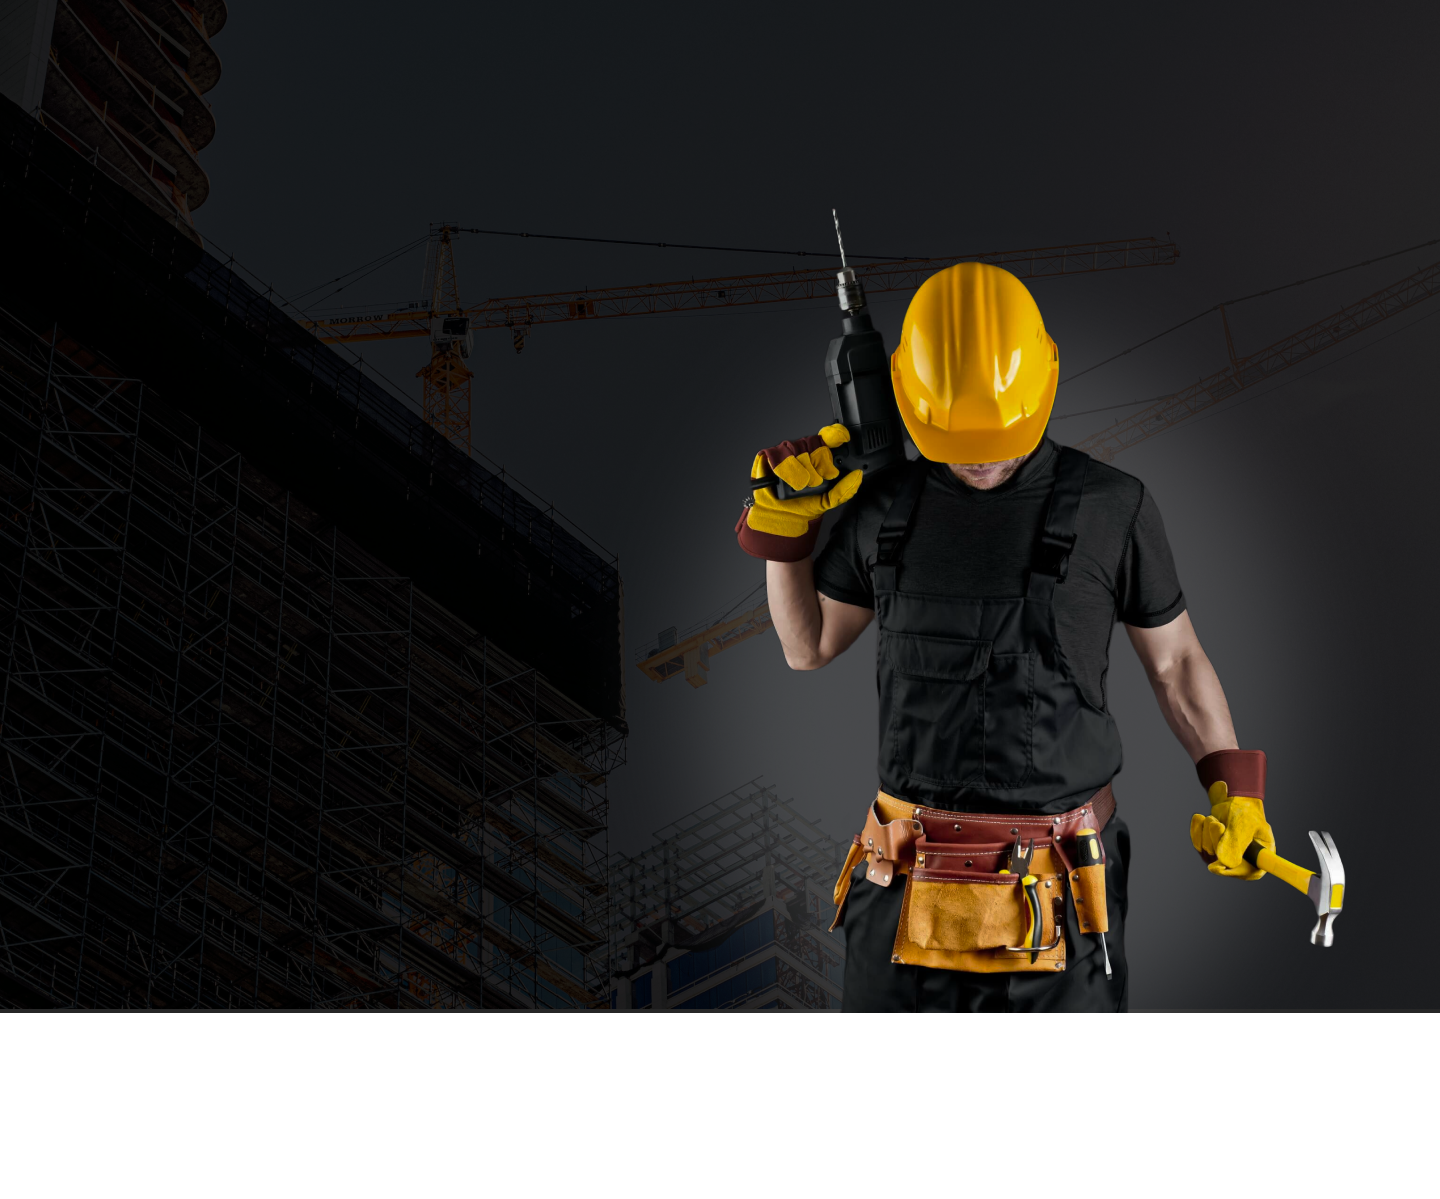
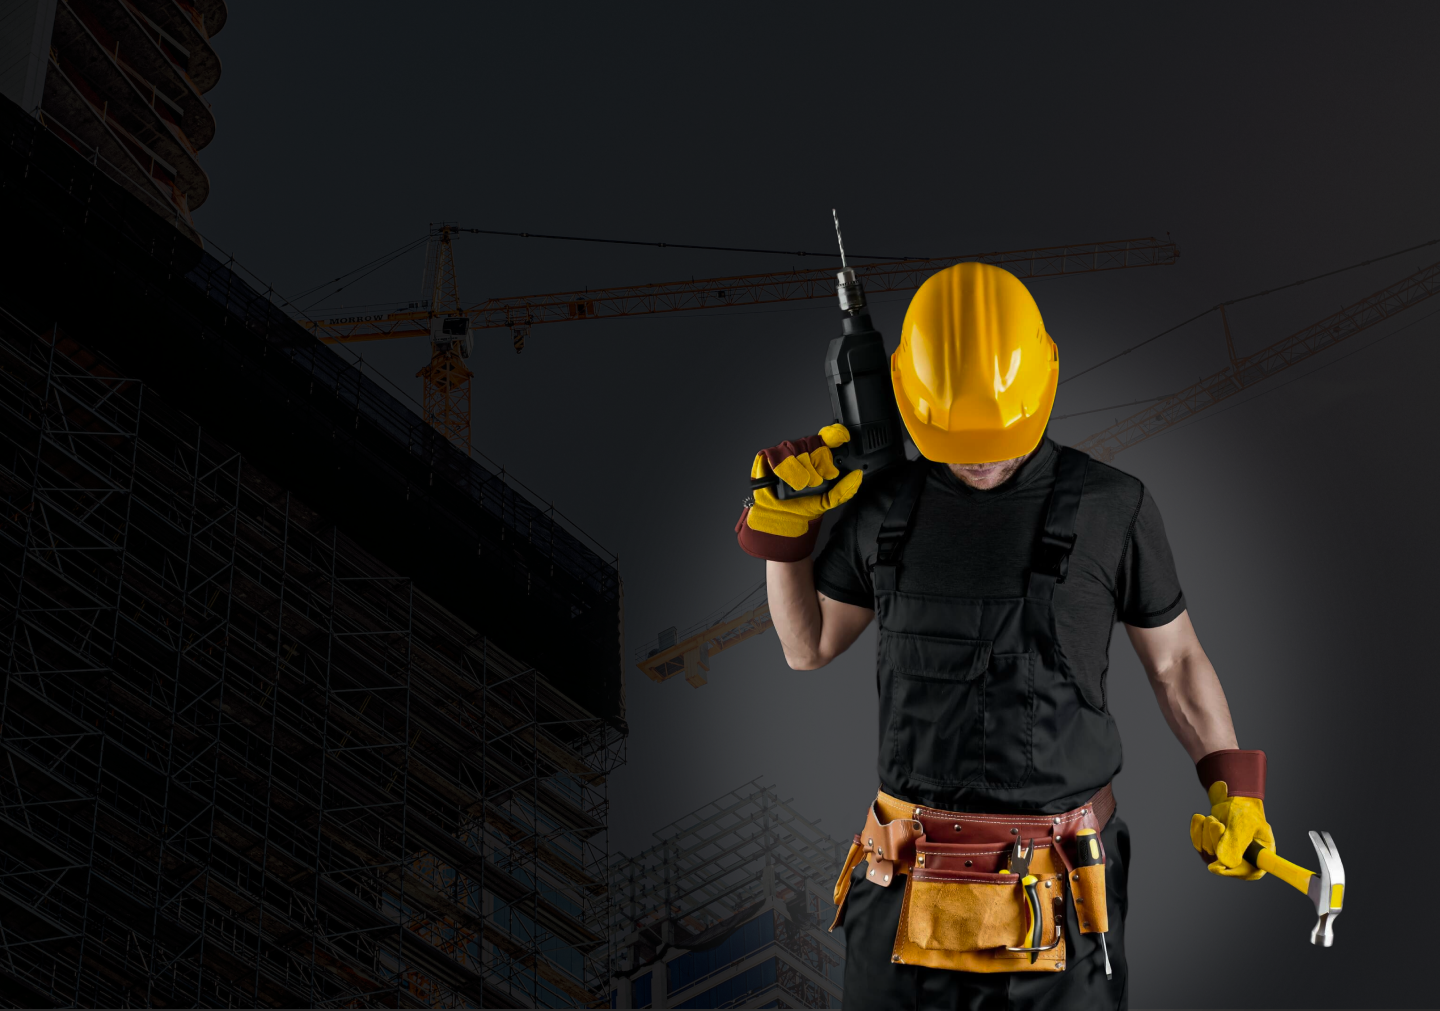
update section main

diff --git a/src/index.html b/src/index.html
@@ -13,7 +13,10 @@
 						<!-- Двигающееся часть слайдера -->
 						<div class="main__wrapper swiper-wrapper">
 							<!-- Слайд -->
-							<div class="main__slide swiper-slide" style="background-image: url(../img/main/slide-1.png);">
+							<div class="main__slide swiper-slide">
+								<div class="main__img">
+									<img src="@img/main/slide-1.png" alt="">
+								</div>
 								<div class="main__slide__container">
 									<div class="main__content">
 										<p class="main__title">Rennova Group</p>
@@ -21,7 +24,10 @@
 									</div>
 								</div>
 							</div>
-							<div class="main__slide swiper-slide" style="background-image: url(../img/main/slide-2.png);">
+							<div class="main__slide swiper-slide">
+								<div class="main__img">
+									<img src="@img/main/slide-2.png" alt="">
+								</div>
 								<div class="main__slide__container">
 									<div class="main__content">
 										<p class="main__title">Наша основа - ваше доверие</p>
@@ -29,7 +35,10 @@
 									</div>
 								</div>
 							</div>
-							<div class="main__slide swiper-slide" style="background-image: url(../img/main/slide-3.png);">
+							<div class="main__slide swiper-slide">
+								<div class="main__img">
+									<img src="@img/main/slide-3.png" alt="">
+								</div>
 								<div class="main__slide__container">
 									<div class="main__content">
 										<p class="main__title">Всегда есть выход</p>
@@ -37,7 +46,10 @@
 									</div>
 								</div>
 							</div>
-							<div class="main__slide swiper-slide" style="background-image: url(../img/main/slide-4.png);">
+							<div class="main__slide swiper-slide">
+								<div class="main__img">
+									<img src="@img/main/slide-4.png" alt="">
+								</div>
 								<div class="main__slide__container">
 									<div class="main__content">
 										<p class="main__title">Качество говорит о многом</p>
@@ -45,7 +57,10 @@
 									</div>
 								</div>
 							</div>
-							<div class="main__slide swiper-slide" style="background-image: url(../img/main/slide-5.png);">
+							<div class="main__slide swiper-slide">
+								<div class="main__img">
+									<img src="@img/main/slide-5.png" alt="">
+								</div>
 								<div class="main__slide__container">
 									<div class="main__content">
 										<p class="main__title">Стань частью Rennova Group</p>
@@ -55,7 +70,9 @@
 							</div>
 						</div>
 						<!-- Если нужна пагинация -->
-						<div class="swiper-pagination"></div>
+						<div class="main__pagination swiper-pagination">
+
+						</div>
 					</div>
 				</section>
 			</main>

diff --git a/src/js/files/sliders.js b/src/js/files/sliders.js
@@ -7,7 +7,7 @@
 // Подключаем слайдер Swiper из node_modules
 // При необходимости подключаем дополнительные модули слайдера, указывая их в {} через запятую
 // Пример: { Navigation, Autoplay }
-import Swiper, { Navigation } from 'swiper';
+import Swiper, {EffectFade, Pagination} from 'swiper';
 /*
 Основниые модули слайдера:
 Navigation, Pagination, Autoplay, 
@@ -27,12 +27,12 @@ import "../../scss/libs/swiper.scss";
 function initSliders() {
 	// Перечень слайдеров
 	// Проверяем, есть ли слайдер на стронице
-	if (document.querySelector('.swiper')) { // Указываем скласс нужного слайдера
+	if (document.querySelector('.main__slider')) { // Указываем скласс нужного слайдера
 		// Создаем слайдер
-		new Swiper('.swiper', { // Указываем скласс нужного слайдера
+		new Swiper('.main__slider', { // Указываем скласс нужного слайдера
 			// Подключаем модули слайдера
 			// для конкретного случая
-			modules: [Navigation],
+			modules: [EffectFade, Pagination],
 			observer: true,
 			observeParents: true,
 			slidesPerView: 1,
@@ -40,28 +40,28 @@ function initSliders() {
 			autoHeight: true,
 			speed: 800,
 
-			//touchRatio: 0,
-			//simulateTouch: false,
-			//loop: true,
-			//preloadImages: false,
-			//lazy: true,
+			// touchRatio: 0,
+			// simulateTouch: false,
+			// loop: true,
+			preloadImages: false,
+			lazy: true,
 
-			/*
+			
 			// Эффекты
 			effect: 'fade',
 			autoplay: {
 				delay: 3000,
 				disableOnInteraction: false,
 			},
-			*/
+			
 
 			// Пагинация
-			/*
+			
 			pagination: {
-				el: '.swiper-pagination',
+				el: '.main__pagination',
 				clickable: true,
 			},
-			*/
+		
 
 			// Скроллбар
 			/*

diff --git a/src/scss/index.scss b/src/scss/index.scss
@@ -2,15 +2,27 @@
 .main {
   // .main__slider
   &__slider {
+    max-width: 100%;
+    width: 100%;
+    height: 100%;
   }
   // .main__wrapper
   &__wrapper {
+    max-width: 100%;
+    width: 100%;
   }
   // .main__slide
   &__slide {
-    background-position: center top;
-    background-size: cover;
-    background-repeat: no-repeat;
+    // background-position: center;
+    // background-size: cover;
+    // background-repeat: no-repeat;
+    &:nth-child(1) {
+      .main__title {
+        @extend %lato-800;
+        font-size: rem(128);
+        line-height: math.div(120 , 128);
+      }
+    }
     &:nth-child(2) {
       .main__title {
         @extend %lato-800;
@@ -51,13 +63,34 @@
       }
     }
     &:nth-child(5) {
-      
+      .main__title {
+        @extend %lato-800;
+        font-size: rem(64);
+        line-height: math.div(60 , 60);
+      }
+      .main__subtitle {
+        @extend %poir-400;
+        font-size: rem(48);
+        line-height: math.div(46 , 48);
+      }
+    }
+  }
+  //.main__img
+  &__img {
+    position: relative;
+    img {
+      position: absolute;
+      right: 0;
+      left: 0;
+      width: 100%;
+      min-height: 100%;
     }
   }
   // .main__content
   &__content {
+    z-index: 3;
     padding-top: 570px;
-    padding-bottom: 250px;
+    padding-bottom: 270px;
     display: flex;
     flex-direction: column;
     align-items: flex-start;
@@ -65,13 +98,12 @@
   }
   // .main__title
   &__title {
-    @extend %lato-800;
-    font-size: rem(128);
-    line-height: math.div(120 , 128);
+    z-index: 2;
     color: $white;
   }
   // .main__subtitle
   &__subtitle {
+    z-index: 2;
     @extend %lato-400;
     font-size: rem(48);
     line-height: math.div(46 , 48);
